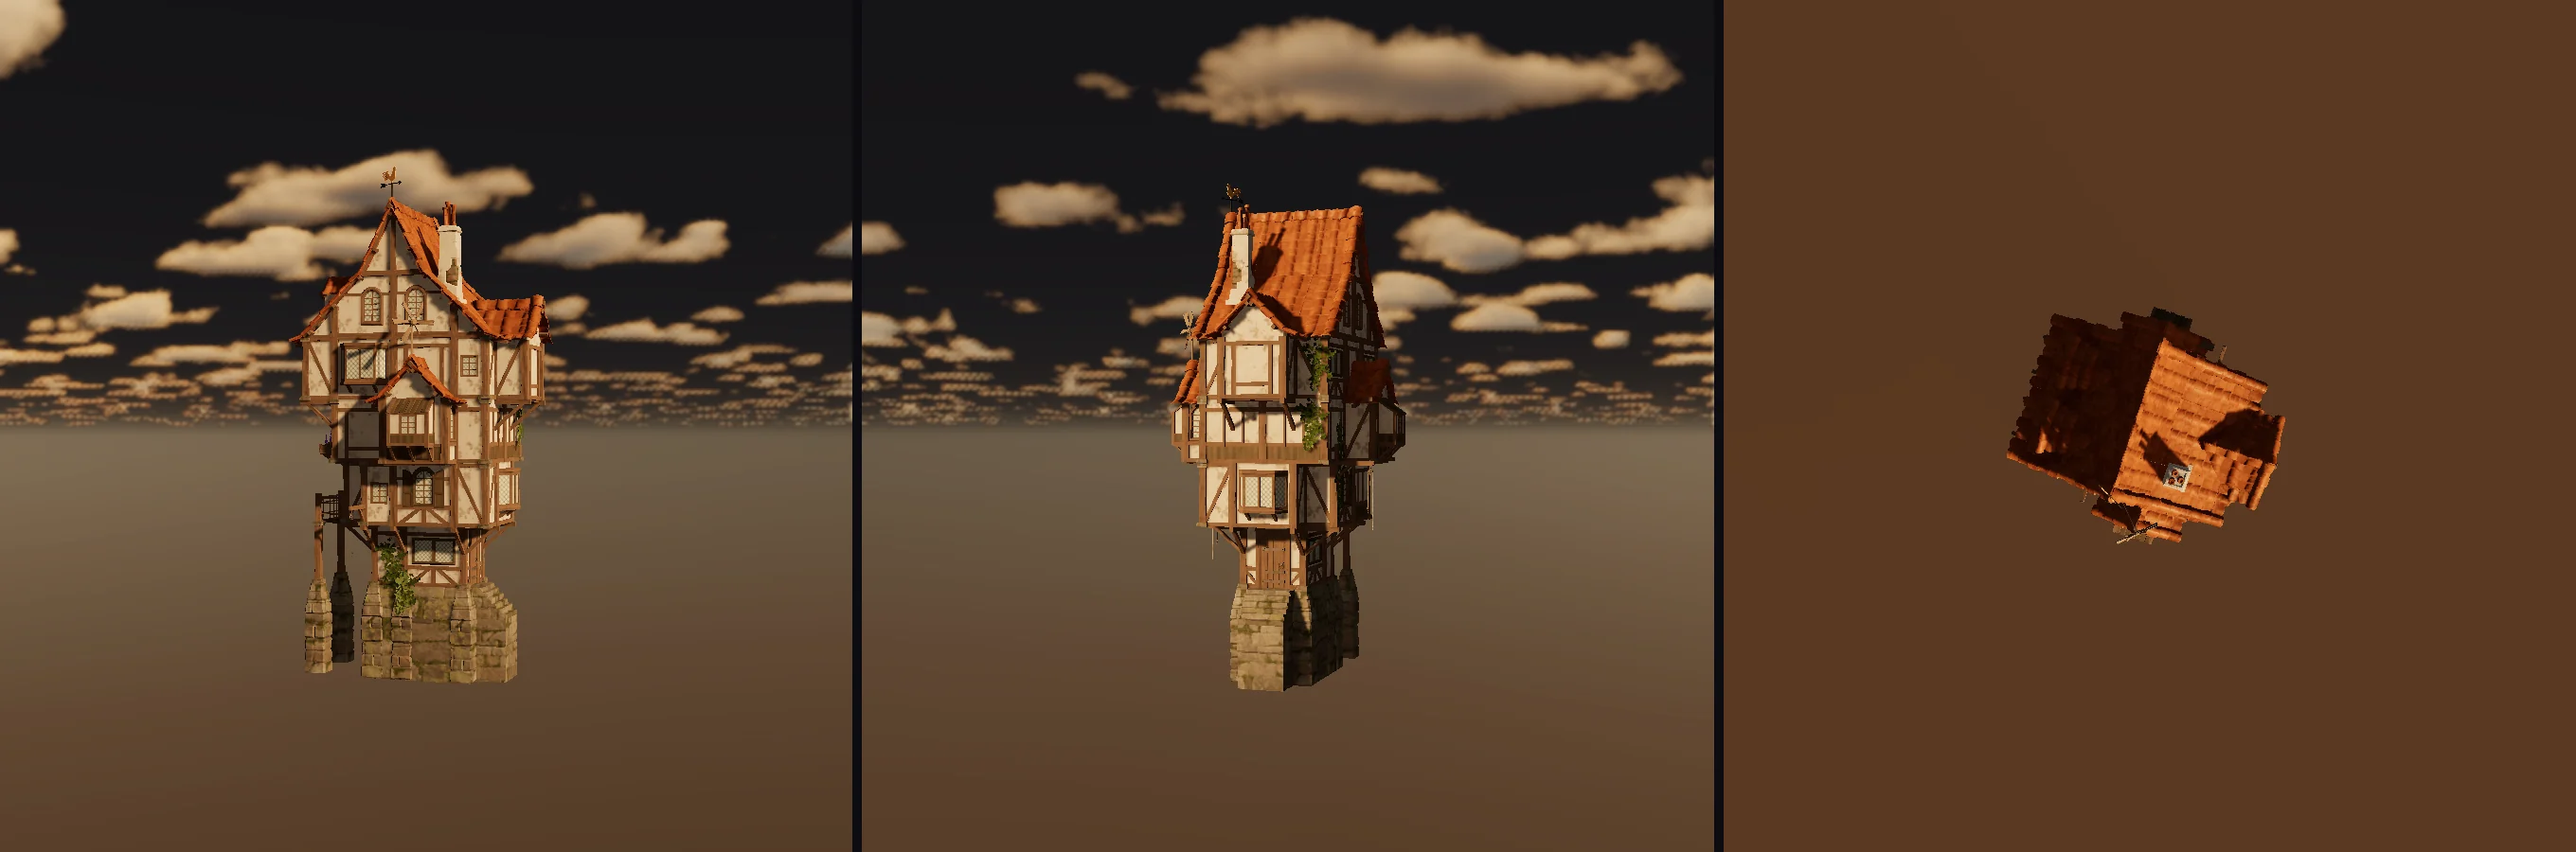
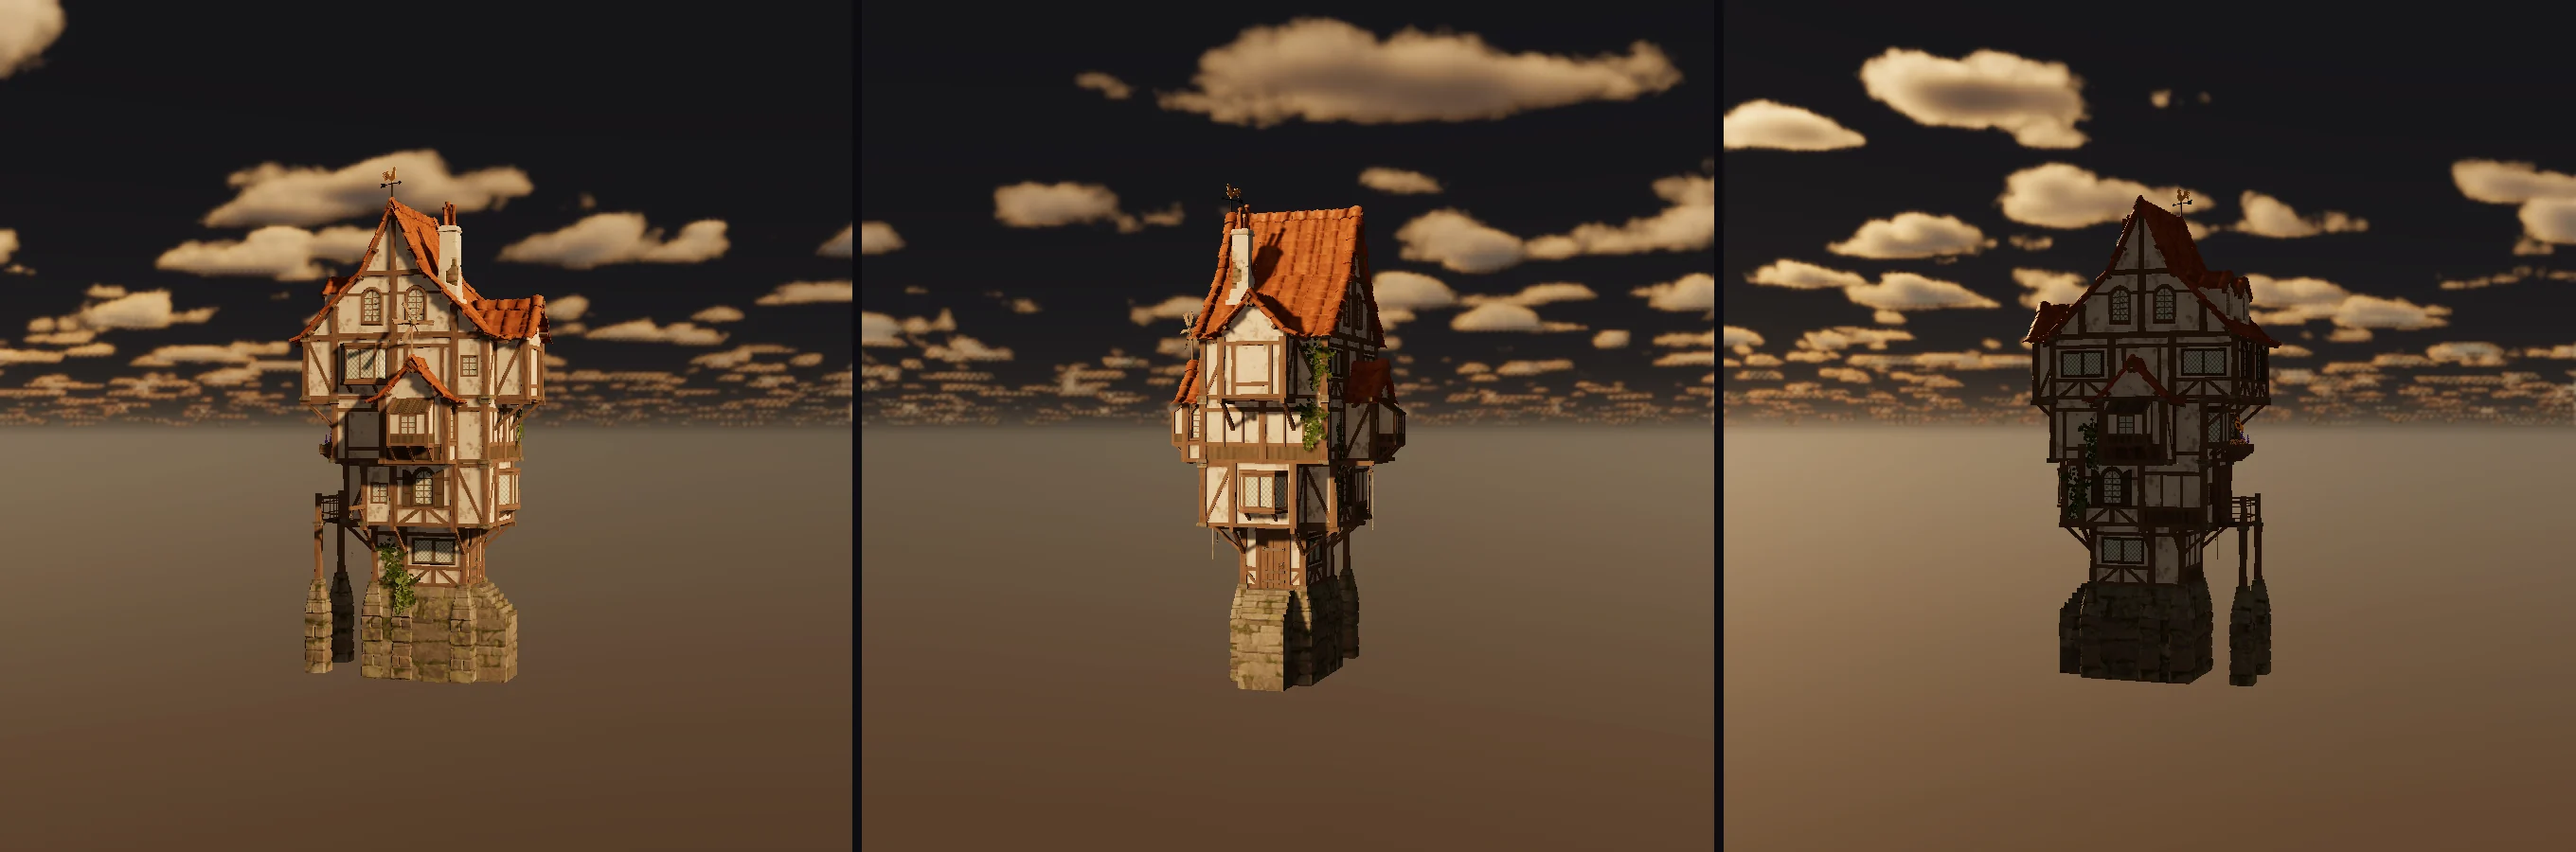
fix(website): show every capture at its own aspect ratio
Showcase cards no longer crop: each capture declares its pixel size and the
frame takes that aspect, the flythrough and the three-view isolate span the
full width, the two 16:9 stills pair up, and the UI Toolkit panel sits at its
native size on a 16:9 stage. Isolate composite now shows front, right, back.

Changed region(s): [[0.6562, 0.0, 1.0, 1.0]]

diff --git a/website/src/pages/landing.tsx b/website/src/pages/landing.tsx
@@ -59,35 +59,63 @@ const surfaces = [
   { icon: GitBranch, title: 'Version control', blurb: 'Unity VCS status, checkout, and checkin when the native cm client is not around.', command: 'ucp vcs status', to: '/docs/project/version-control', skill: 'ucp-version-control' },
 ];
 
-const showcase = [
+interface ShowcaseItem {
+  kind: 'video' | 'image';
+  src: string;
+  poster?: string;
+  width: number;
+  height: number;
+  span: 'full' | 'half';
+  /** Stage aspect when the capture should sit inside a larger frame instead of filling it. */
+  stage?: [number, number];
+  title: string;
+  caption: string;
+  command: string;
+}
+
+// Each capture is shown at its own aspect ratio, never cropped; the grid pairs the two 16:9 stills.
+const showcase: ShowcaseItem[] = [
   {
-    kind: 'video' as const,
+    kind: 'video',
     src: '/media/kingdom-flythrough.webm',
     poster: '/media/kingdom-flythrough.jpg',
+    width: 1280,
+    height: 648,
+    span: 'full',
     title: 'A camera move, recorded from the CLI',
     caption: 'The demo project is Unity’s Fantasy Kingdom sample moved to HDRP. The camera path is set through ucp exec and captured with ucp record.',
-    command: 'ucp play && ucp record capture --duration 11 --fps 30 --width 1920 --height 1080 -o flythrough.mp4',
+    command: 'ucp play && ucp record capture --duration 11 --fps 30 --width 1920 --height 1080 --bitrate-kbps 24000 -o flythrough.mp4',
   },
   {
-    kind: 'image' as const,
+    kind: 'image',
     src: '/media/kingdom-overview.webp',
+    width: 1600,
+    height: 900,
+    span: 'half',
     title: 'Game view screenshot',
     caption: 'What the player sees, straight to disk. Screenshots work in edit mode and play mode.',
     command: 'ucp screenshot --width 1920 --height 1080 -o overview.png',
   },
   {
-    kind: 'image' as const,
-    src: '/media/isolate.webp',
-    title: 'Isolated multi-view render',
-    caption: 'One object, several angles, framed from its bounds. Built for a vision model that has to judge geometry.',
-    command: 'ucp view isolate --name Preset_House_Windmill_01 --views front,right,top --max-edge 900 -o windmill.png',
-  },
-  {
-    kind: 'image' as const,
+    kind: 'image',
     src: '/media/ui-treasury.webp',
+    width: 780,
+    height: 460,
+    span: 'half',
+    stage: [16, 9],
     title: 'UI Toolkit panel, populated',
     caption: 'A UXML document rendered off-screen with scenario data, deterministic to the pixel.',
-    command: 'ucp ui screenshot Assets/UI/Kingdom/Treasury.ucp-ui.json --state prosperous',
+    command: 'ucp ui screenshot Assets/UI/Kingdom/Treasury.ucp-ui.json --state prosperous -o treasury.png',
+  },
+  {
+    kind: 'image',
+    src: '/media/isolate.webp',
+    width: 2720,
+    height: 900,
+    span: 'full',
+    title: 'Isolated multi-view render',
+    caption: 'One object, three angles, framed from its bounds. Built for a vision model that has to judge geometry.',
+    command: 'ucp view isolate --name Preset_House_Windmill_01 --views front,right,back --max-edge 900 -o windmill.png',
   },
 ];
 
@@ -221,15 +249,20 @@ function Showcase() {
           blurb="No editor screenshots by hand. Each capture, render, and clip came out of the CLI against the demo project, exactly as an agent would get it."
         />
         <Stagger className="mt-10 grid gap-5 md:grid-cols-2">
-          {showcase.map((item, index) => (
-            <StaggerItem key={item.src} className={cn(index === 0 && 'md:col-span-2')}>
-              <figure className="overflow-hidden rounded-xl border border-border bg-card">
-                <div className={cn('relative bg-terminal', index === 0 ? 'aspect-[21/9]' : 'aspect-[16/10]')}>
+          {showcase.map((item) => (
+            <StaggerItem key={item.src} className={cn('flex', item.span === 'full' && 'md:col-span-2')}>
+              <figure className="flex w-full flex-col overflow-hidden rounded-xl border border-border bg-card">
+                <div
+                  className={cn('flex w-full items-center justify-center bg-terminal', item.stage && 'p-[6%]')}
+                  style={{ aspectRatio: item.stage ? `${item.stage[0]} / ${item.stage[1]}` : `${item.width} / ${item.height}` }}
+                >
                   {item.kind === 'video' ? (
                     <video
-                      className="absolute inset-0 size-full object-cover"
+                      className="block size-full"
                       src={item.src}
                       poster={item.poster}
+                      width={item.width}
+                      height={item.height}
                       autoPlay
                       muted
                       loop
@@ -238,19 +271,23 @@ function Showcase() {
                       aria-label={item.title}
                     />
                   ) : (
-                    <img className="absolute inset-0 size-full object-cover" src={item.src} alt={item.title} loading="lazy" decoding="async" />
+                    <img
+                      className={cn('block', item.stage ? 'max-h-full max-w-full rounded-md shadow-[0_20px_50px_-20px_rgba(0,0,0,0.8)]' : 'size-full')}
+                      src={item.src}
+                      alt={item.title}
+                      width={item.width}
+                      height={item.height}
+                      loading="lazy"
+                      decoding="async"
+                    />
                   )}
                 </div>
-                <figcaption className="p-4">
-                  <div className="flex items-start justify-between gap-3">
-                    <div>
-                      <h3 className="text-sm font-semibold">{item.title}</h3>
-                      <p className="mt-1 text-sm leading-6 text-muted-foreground">{item.caption}</p>
-                    </div>
-                  </div>
+                <figcaption className="flex flex-1 flex-col border-t border-border p-4">
+                  <h3 className="text-sm font-semibold">{item.title}</h3>
+                  <p className="mt-1 flex-1 text-sm leading-6 text-muted-foreground">{item.caption}</p>
                   <div className="mt-3 flex items-center gap-2 rounded-md border border-border bg-code px-3 py-1.5 font-mono text-[12px]">
                     <span className="select-none text-primary">$</span>
-                    <span className="thin-scroll min-w-0 flex-1 overflow-x-auto whitespace-nowrap">{item.command}</span>
+                    <span className="thin-scroll min-w-0 flex-1 overflow-x-auto whitespace-nowrap py-0.5">{item.command}</span>
                     <CopyButton text={item.command} className="h-6 border-transparent bg-transparent px-1" />
                   </div>
                 </figcaption>
